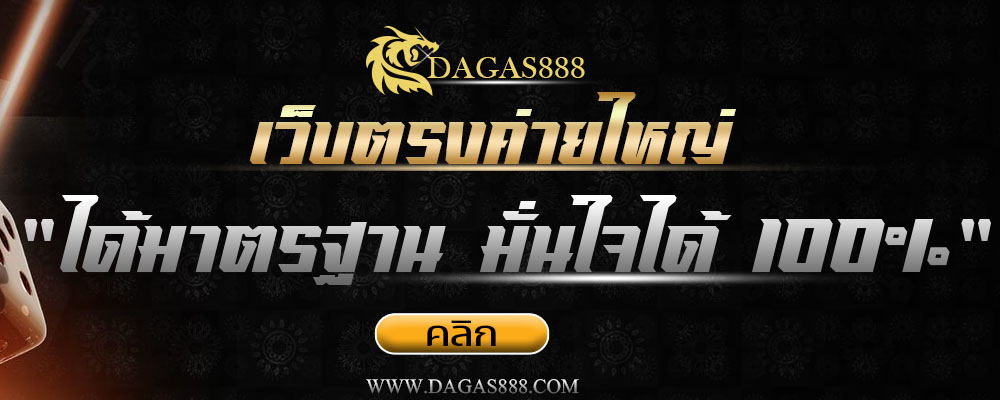
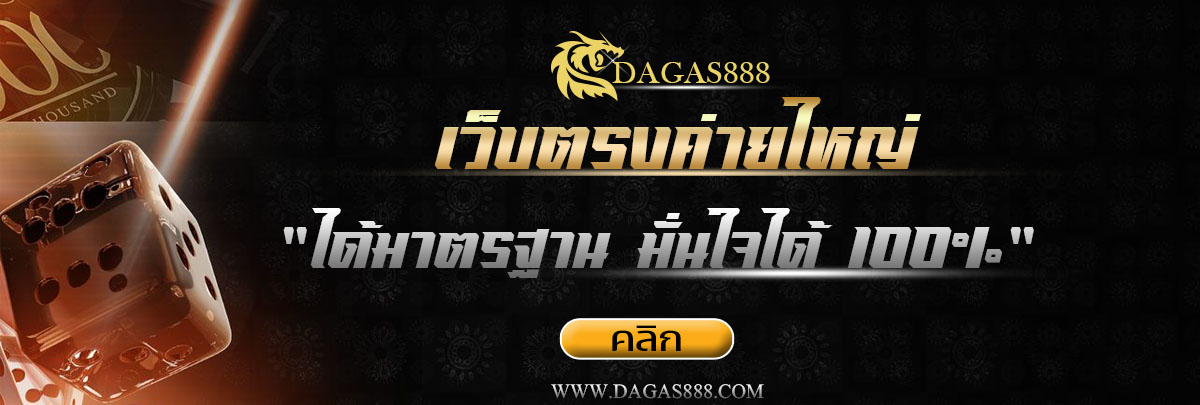
Add files via upload

diff --git a/Myhtml/Myhtml/sportequip.html b/Myhtml/Myhtml/sportequip.html
@@ -23,6 +23,17 @@
 			opacity: 1;	
 			color: black;
 		}
+		.carousel-item .overlay-image{
+			position: absolute;
+			left: 0;
+			right: 0;
+			top: 0;
+			bottom: 0;
+			background-position: center;
+			background-size: contain;
+			background-repeat: no-repeat;
+			opacity: .95;
+		}
 		.card-area .row .col .card .card-body .card-text{	
 			text-overflow:ellipsis; 
 		}
@@ -57,11 +68,11 @@
 <body style="background-image: url(img/bg1.jpg);">
 	<div class="addV position-fixed" style="z-index: 20; width: 200px ;height: 600px;">
 		<button type="button" class="btn-close position-absolute"  aria-label="Close" onclick="document.querySelector('.addV').style.display ='none';"></button>
-		<img src="img/addver.jpg" alt="">
+		<img src="img/addver2.jpg" alt="">
 	</div>
 	<div class="addV2 position-fixed" style="z-index: 20; width: 200px ;height: 600px;">
 		<button type="button" class="btn-close position-absolute " aria-label="Close" onclick="document.querySelector('.addV2').style.display='none';"></button>
-		<img src="img/addver2.jpg" alt="">
+		<img src="img/addver.jpg" alt="">
 	</div>
 	<div class="regis-area position-fixed d-flex flex-column">
 		<button class="btn btn-danger h-100"><i class="bi bi-person-plus-fill mx-1"></i>สมัครสมาชิก</button>
@@ -90,20 +101,21 @@
 				<a class="nav-link" href="#">Contact</a>
 			</li>
 		</ul>
-		
 		<div id="carouselExampleSlidesOnly" class="carousel carousel-dark slide mt-3 mb-3"  data-bs-ride="carousel">
-			<div class="carousel-inner" style="height: 500px;" >
-				<div class="carousel-item  active" data-bs-interval="2000" >
-					<img src="img/banner.jpg" width="100%" alt="">
+			<div class="carousel-inner">
+				<div class="carousel-item  active" data-bs-interval="4000">
+					<div class="overlay-image" style="background-image: url(img/banner.jpg);" ></div>
 				</div>
-				<div class="carousel-item" data-bs-interval="2000">
-					<img src="img/banner2.jpg" alt="" width="100%">
+				<div class="carousel-item" data-bs-interval="3000">
+					<div class="overlay-image" style="background-image: url(img/banner2.jpg);" ></div>
 				</div>
 			</div>
 		</div>
 		<div id="carouselExampleSlidesOnly" class="carousel carousel-dark slide mt-3 mb-3"  data-bs-ride="carousel">
-			<div class="carousel-inner" style="height: 400px;" >
-				<img src="img/sport.jpg"  alt="" style="width: 100%; height: 100%;">
+			<div class="carousel-inner">
+				<div class="carousel-item  active" style="width: 100%; ">
+					<div class="overlay-image" style="background-image: url(img/sport.jpg); width: 100%;background-size: cover;" ></div>
+				</div>
 			</div>
 		</div>
 		<div class="description text-center">
